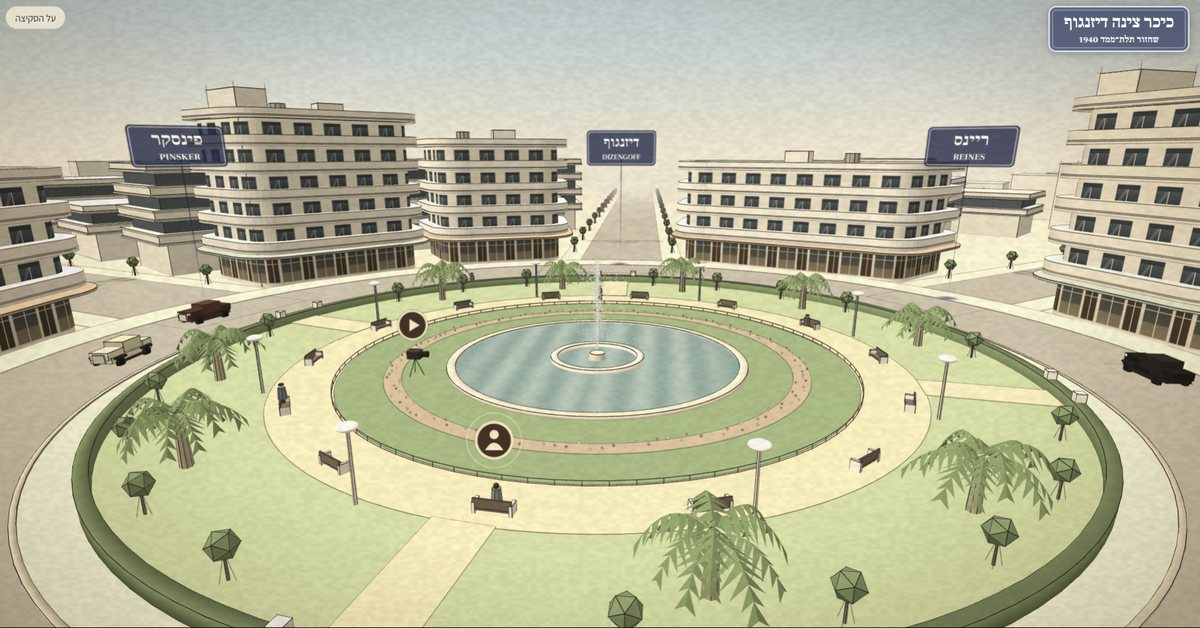
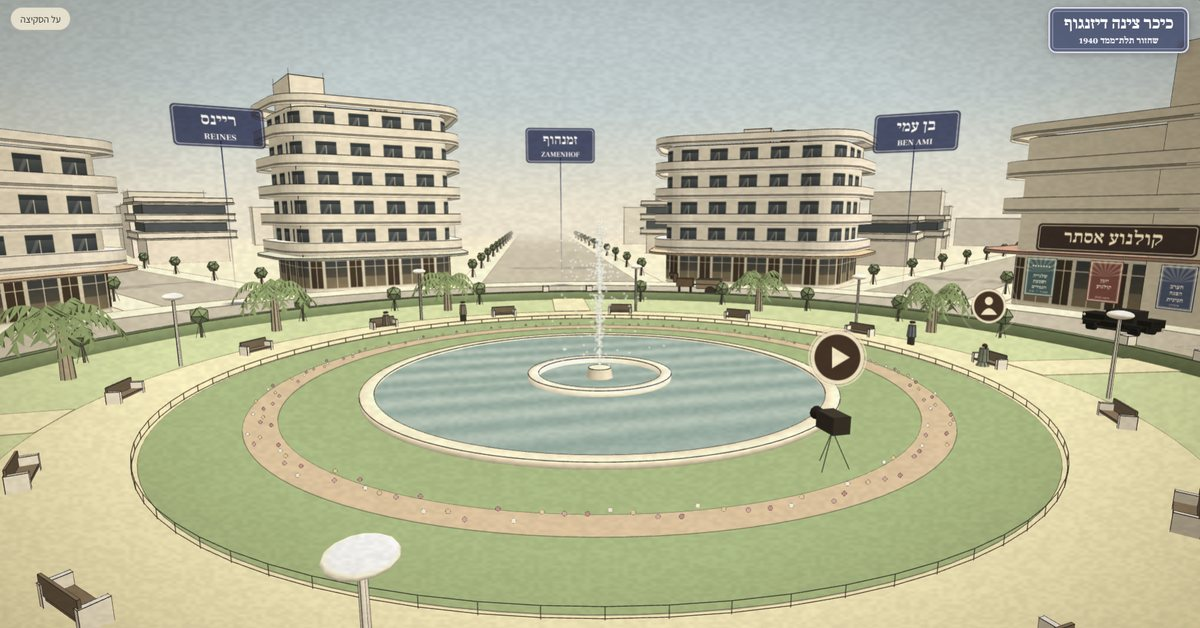
תמונה מקדימה: מבט מתוך הכיכר עם הקולנוע
Claude-Session: https://claude.ai/code/session_01DMCWCkVSmg7Ugu6KAcc1hj

diff --git a/src/index.html b/src/index.html
@@ -10,11 +10,11 @@
 <meta property="og:title" content="כיכר דיזנגוף 1940">
 <meta property="og:description" content="שחזור תלת־ממדי מסוגנן של כיכר דיזנגוף בתל אביב ב־1940. סיבוב בכיכר, שלטי רחוב ונקודות מידע היסטוריות.">
 <meta property="og:url" content="https://dizingof-sqaure-1940.vercel.app/src/">
-<meta property="og:image" content="https://dizingof-sqaure-1940.vercel.app/assets/og.jpg">
+<meta property="og:image" content="https://dizingof-sqaure-1940.vercel.app/assets/og.jpg?v=2">
 <meta property="og:image:width" content="1200">
 <meta property="og:image:height" content="628">
 <meta name="twitter:card" content="summary_large_image">
-<meta name="twitter:image" content="https://dizingof-sqaure-1940.vercel.app/assets/og.jpg">
+<meta name="twitter:image" content="https://dizingof-sqaure-1940.vercel.app/assets/og.jpg?v=2">
 <link rel="stylesheet" href="https://fonts.googleapis.com/css2?family=Frank+Ruhl+Libre:wght@500;700&family=Assistant:wght@400;600;700&display=swap">
 <link rel="stylesheet" href="style.css">
 </head>
